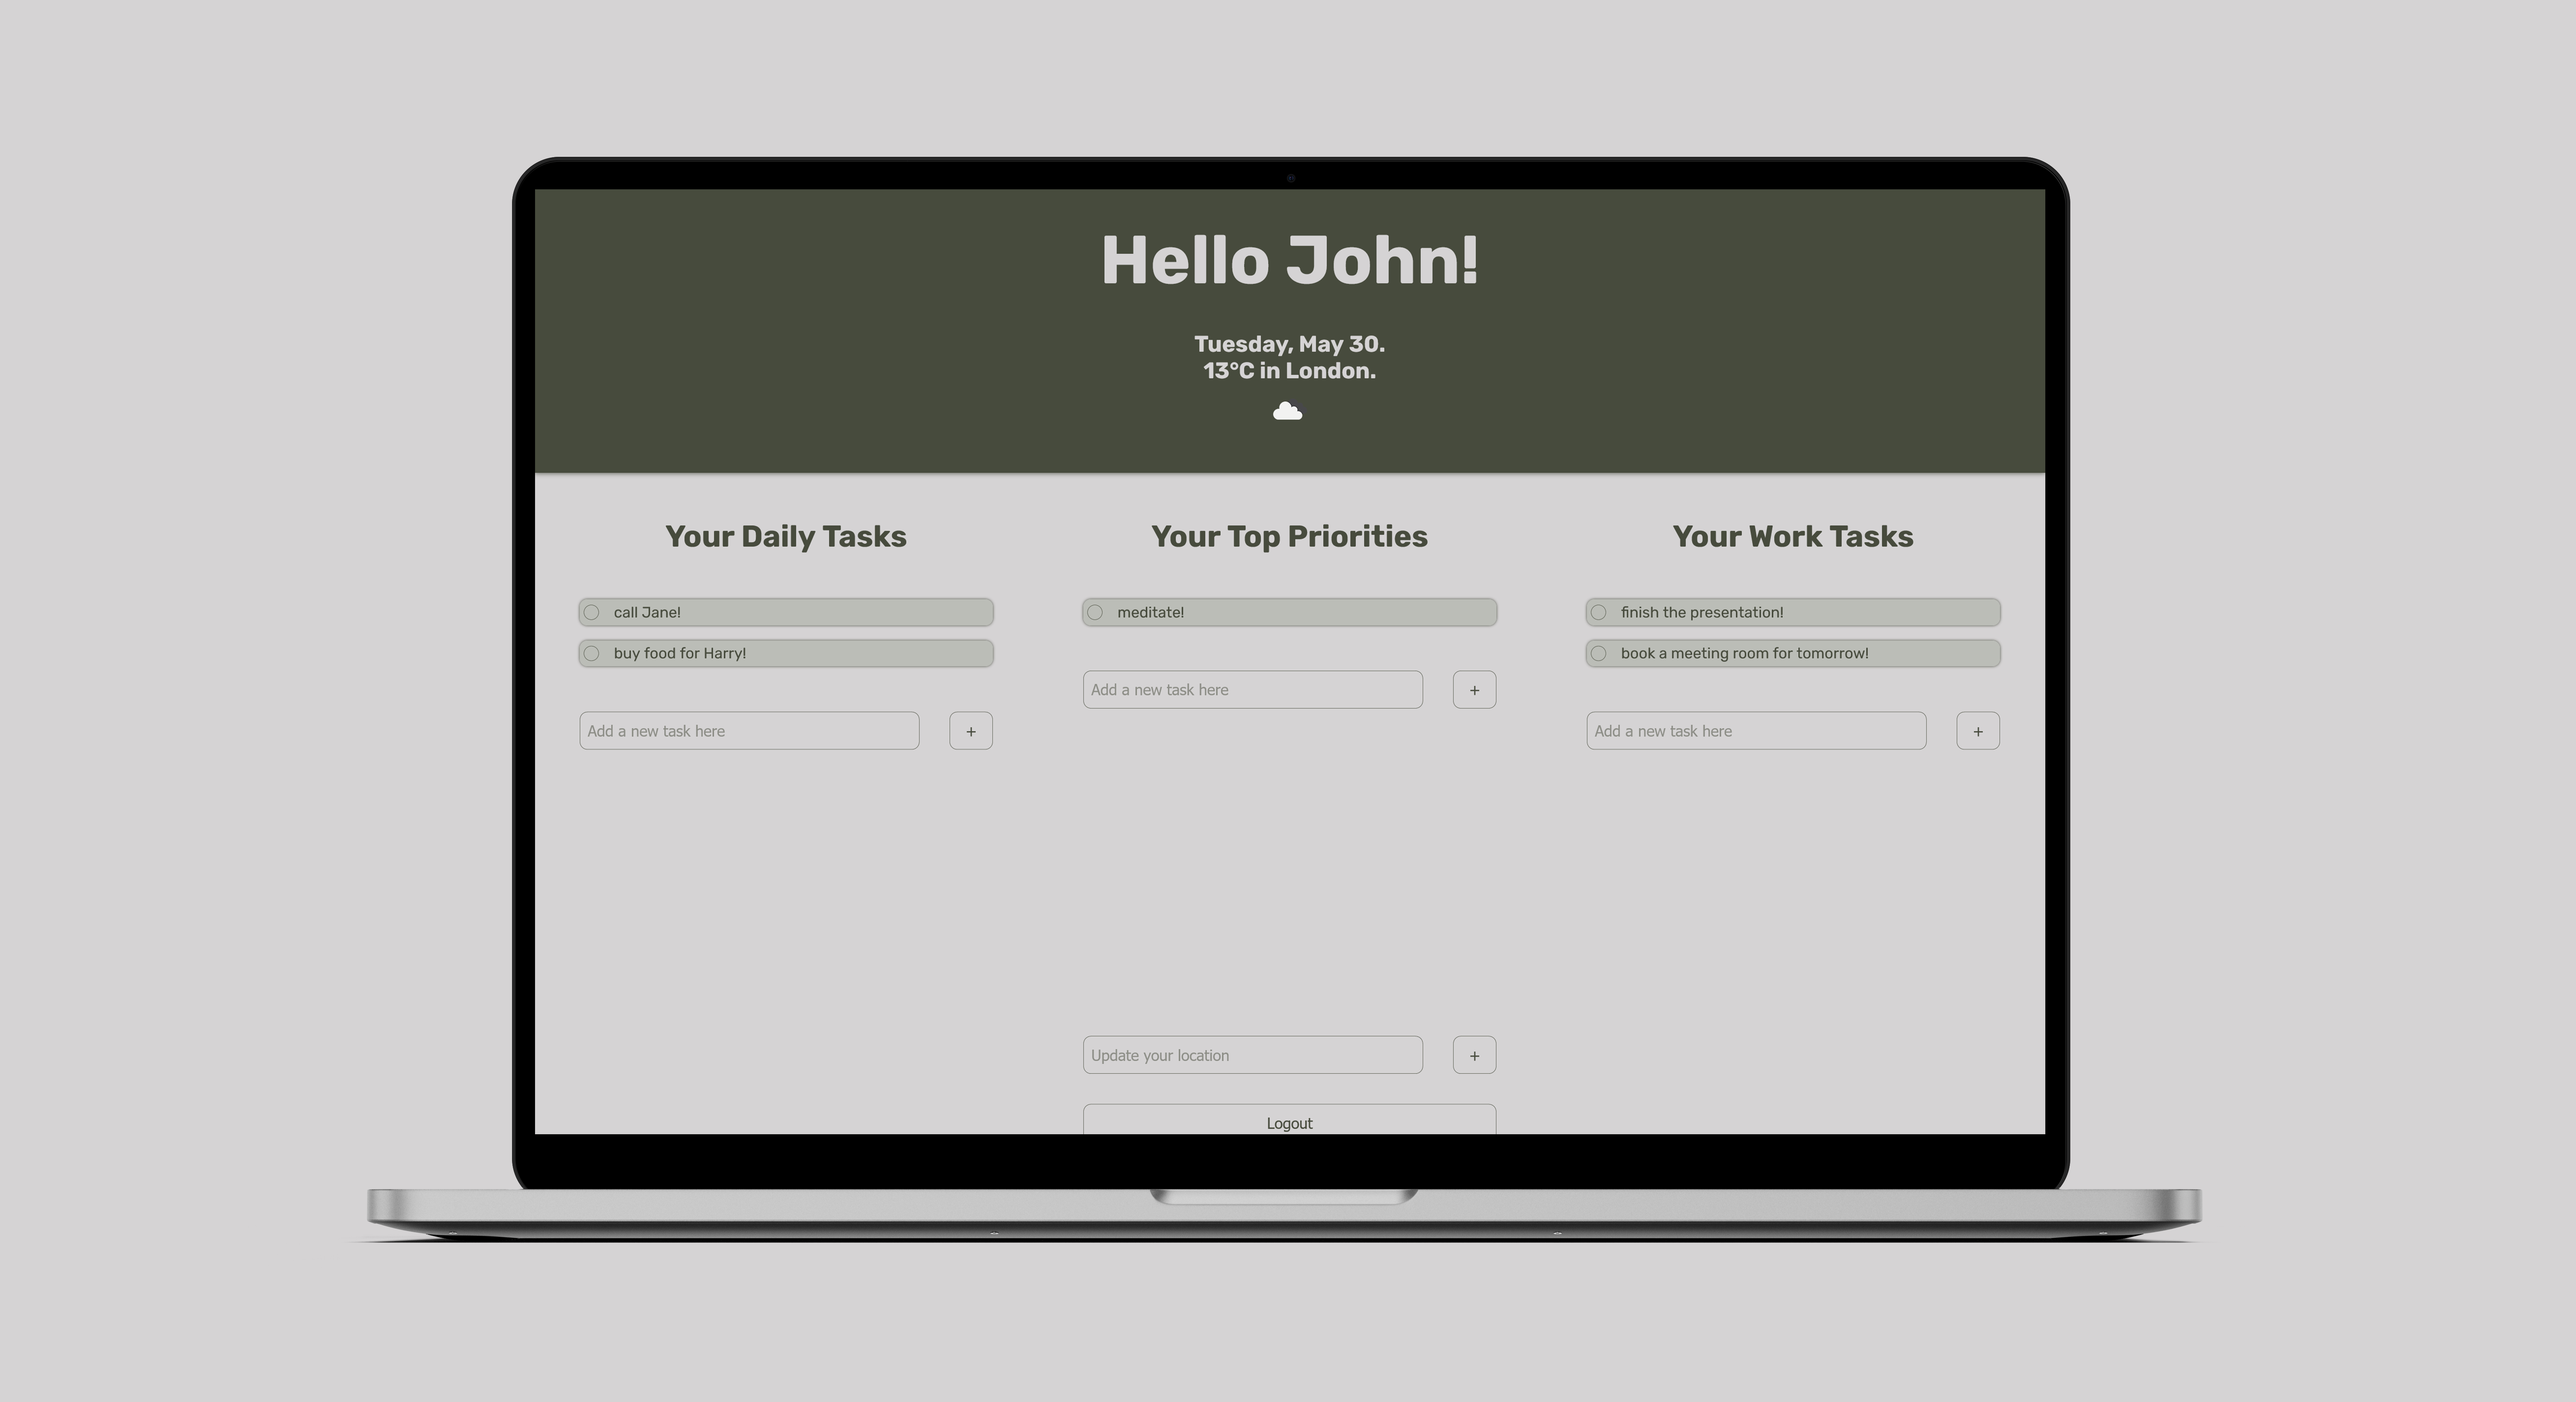
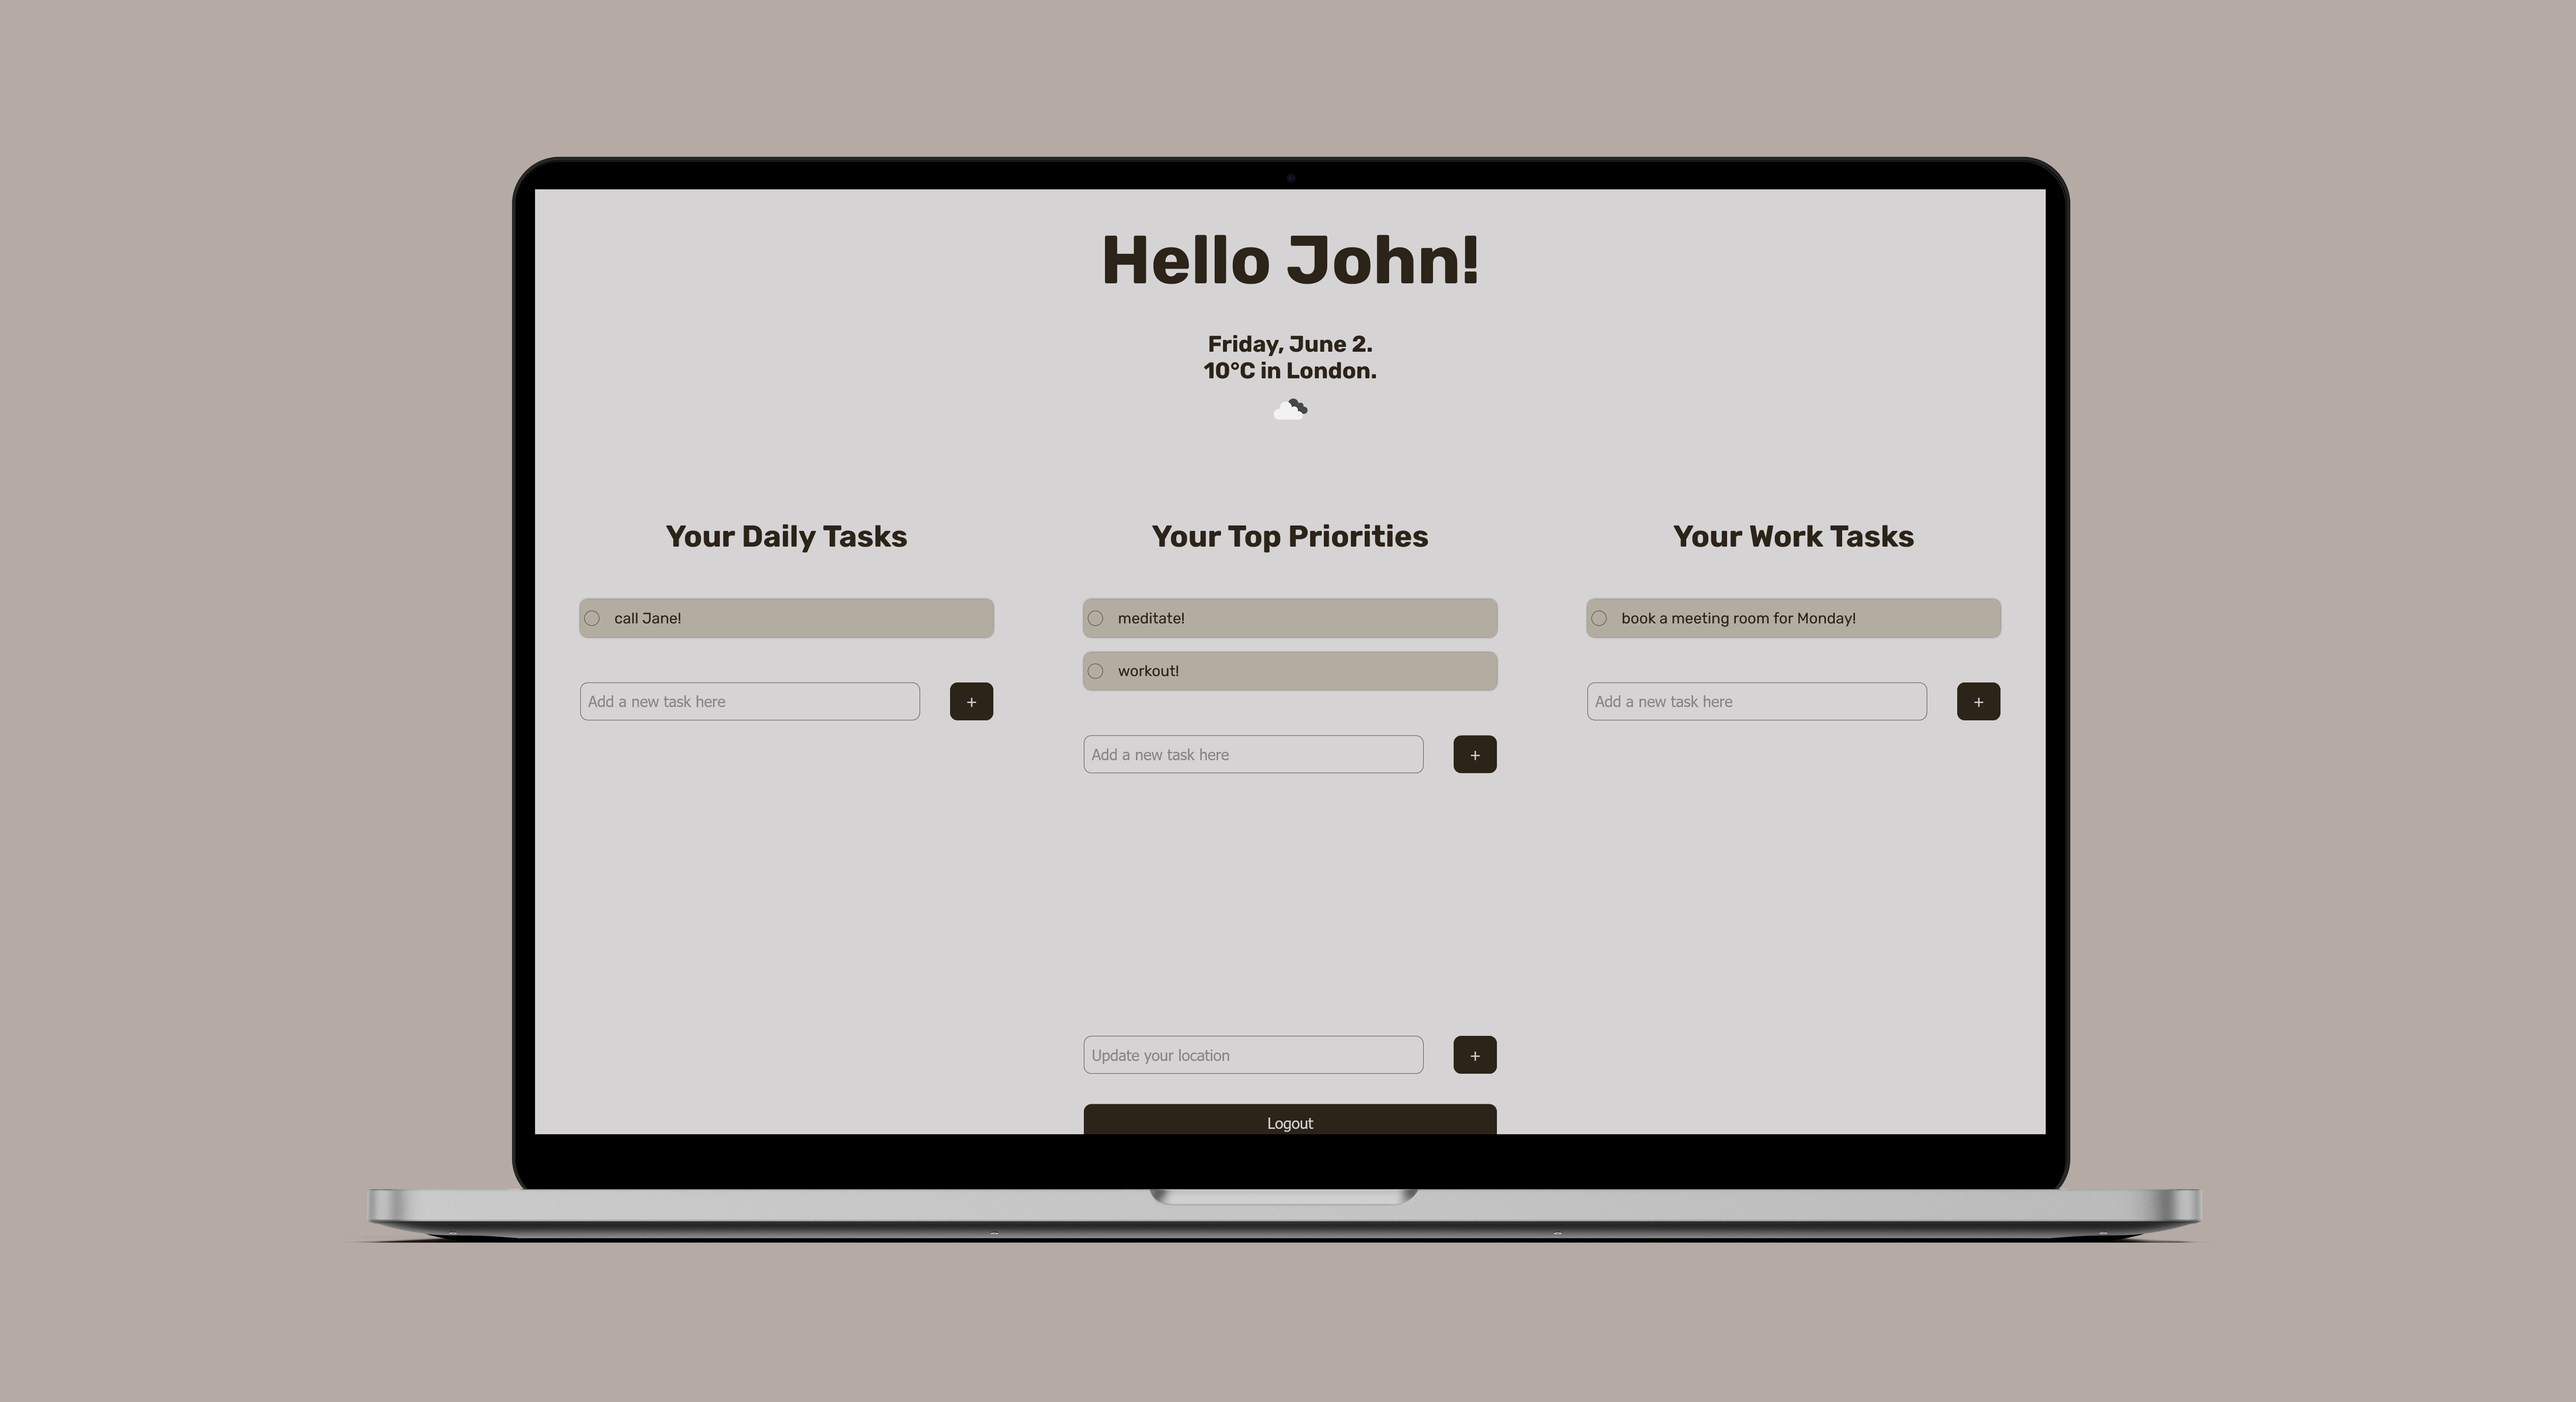
Update the overall design

diff --git a/public/css/planner-styles.css b/public/css/planner-styles.css
@@ -22,9 +22,8 @@ body {
 
 header {
     align-items: center;
-    background-color: #474b3d;
-    box-shadow: 0 0 10px 0 #474b3d;
-    color: #d5d3d4;
+    background-color: #d5d3d4;
+    color: #2c2419;
     display: flex;
     flex-direction: column;
     min-height: 30vh;
@@ -79,30 +78,31 @@ form {
 }
 
 .column-one h3 {
-    color: #474b3d;
+    color: #2c2419;
     font-family: 'Rubik', sans-serif;
     font-size: 2vmax;
 }
 
 .column-two h3 {
-    color: #474b3d;
+    color: #2c2419;
     font-family: 'Rubik', sans-serif;
     font-size: 2vmax;
 }
 
 .column-three h3 {
-    color: #474b3d;
+    color: #2c2419;
     font-family: 'Rubik', sans-serif;
     font-size: 2vmax;
 }
 
 .task-list {
     align-items: center;
-    background-color: #bbbdb7;
+    background-color: #b3aca1;
     border-radius: 0.5vmax;
-    box-shadow: 0 0 5px 0 #474b3d;
+    box-shadow: 0 0 3px 0 #2c2419;
     display: flex;
     flex-direction: row;
+    height: 2.5vmax;
     justify-content: flex-start;
     margin-bottom: 1vmax;
     padding: 0.5rem;
@@ -111,7 +111,7 @@ form {
 
 .task-list .daily-task-list {
     align-items: center;
-    color: #474b3d;
+    color: #2c2419;
     display: flex;
     font-size: 1vmax;
     margin-left: 1vmax;
@@ -119,7 +119,7 @@ form {
 
 .task-list .priorities-list {
     align-items: center;
-    color: #474b3d;
+    color: #2c2419;
     display: flex;
     font-size: 1vmax;
     margin-left: 1vmax;
@@ -127,7 +127,7 @@ form {
 
 .task-list .work-task-list {
     align-items: center;
-    color: #474b3d;
+    color: #2c2419;
     display: flex;
     font-size: 1vmax;
     margin-left: 1vmax;
@@ -146,15 +146,15 @@ form {
 }
 
 .task-list .daily-task-list-checkbox:hover {
-    background-color: #474b3d;
+    background-color: #2c2419;
 }
 
 .task-list .priorities-list-checkbox:hover {
-    background-color: #474b3d;
+    background-color: #2c2419;
 }
 
 .task-list .work-task-list-checkbox:hover {
-    background-color: #474b3d;
+    background-color: #2c2419;
 }
 
 .task-input {
@@ -165,10 +165,10 @@ form {
 
 input[type="text"] {
     background-color: transparent;
-    border: 1px solid #474b3d;
+    border: 1px solid #2c2419;
     border-radius: 0.5vmax;
     box-sizing: border-box;
-    color: #474b3d;
+    color: #2c2419;
     display: inline-block;
     font-size: 1vmax;
     height: 2.5vmax;
@@ -182,7 +182,7 @@ input[type="checkbox"] {
     -webkit-appearance: none;
     background-color: transparent;
     border: 1px solid;
-    border-color: #474b3d;
+    border-color: #2c2419;
     border-radius: 50%;
     cursor: pointer;
     height: 1vmax;
@@ -191,7 +191,7 @@ input[type="checkbox"] {
 }
 
 input::placeholder {
-    color: #474b3d;
+    color: #3f3a33;
     font-size: 1vmax;
     opacity: 0.5;
 }
@@ -202,10 +202,10 @@ input::placeholder {
 }
 
 .add-new-value {
-    background-color: transparent;
-    border: 1px solid #474b3d;
+    background-color: #2c2419;
+    border: 1px solid #2c2419;
     border-radius: 0.5vmax;
-    color: #474b3d;
+    color: #d5d3d4;
     flex: 1;
     font-size: 1vmax;
     height: 2.5vmax;
@@ -214,7 +214,7 @@ input::placeholder {
 }
 
 .add-new-value:hover {
-    background-color: #474b3d;
+    background-color: #3f3a33;
     color: #d5d3d4;
 }
 
@@ -230,10 +230,10 @@ section>div {
 }
 
 .logout-button {
-    background-color: transparent;
-    border: 1px solid #474b3d;
+    background-color: #2c2419;
+    border: 1px solid #2c2419;
     border-radius: 0.5vmax;
-    color: #474b3d;
+    color: #d5d3d4;
     font-size: 1vmax;
     height: 2.5vmax;
     margin-top: 1vmax;
@@ -241,7 +241,7 @@ section>div {
 }
 
 .logout-button:hover {
-    background-color: #474b3d;
+    background-color: #3f3a33;
     color: #d5d3d4;
 }
 
@@ -253,12 +253,12 @@ footer {
 }
 
 footer span {
-    color: #474b3d;
+    color: #2c2419;
     font-size: 1vmax;
 }
 
 a {
-    color: #474b3d;
+    color: #2c2419;
     text-decoration: none;
 }
 
@@ -293,6 +293,10 @@ a {
     .column-two h3,
     .column-three h3 {
         font-size: 2.5vmax;
+    }
+
+    .task-list {
+        height: 5vmax;
     }
 
     .task-list .daily-task-list,

diff --git a/public/css/styles.css b/public/css/styles.css
@@ -90,10 +90,10 @@ input::placeholder {
 }
 
 .login-button {
-    background-color: transparent;
+    background-color: #2c2419;
     border: 1px solid #2c2419;
     border-radius: 0.5vmax;
-    color: #2c2419;
+    color: #d5d3d4;
     font-size: 1vmax;
     height: 2.5vmax;
     margin-bottom: 1vmax;
@@ -101,15 +101,15 @@ input::placeholder {
 }
 
 .login-button:hover {
-    background-color: #2c2419;
+    background-color: #3f3a33;
     color: #d5d3d4;
 }
 
 .register-button {
-    background-color: transparent;
+    background-color: #2c2419;
     border: 1px solid #2c2419;
     border-radius: 0.5vmax;
-    color: #2c2419;
+    color: #d5d3d4;
     font-size: 1vmax;
     height: 2.5vmax;
     margin-bottom: 1vmax;
@@ -117,22 +117,22 @@ input::placeholder {
 }
 
 .register-button:hover {
-    background-color: #2c2419;
+    background-color: #3f3a33;
     color: #d5d3d4;
 }
 
 .home-button {
-    background-color: transparent;
+    background-color: #2c2419;
     border: 1px solid #2c2419;
     border-radius: 0.5vmax;
-    color: #2c2419;
+    color: #d5d3d4;
     font-size: 1vmax;
     height: 2.5vmax;
     width: 100%;
 }
 
 .home-button:hover {
-    background-color: #2c2419;
+    background-color: #3f3a33;
     color: #d5d3d4;
 }
 

diff --git a/db/database.js b/db/database.js
@@ -7,7 +7,7 @@ const dbConnection = () => {
         useUnifiedTopology: true,
     };
 
-    mongoose.connect("mongodb+srv://" + process.env.DATABASE + "@cluster0.oabosth.mongodb.net/?retryWrites=true&w=majority", options);
+    mongoose.connect(process.env.DATABASE, options);
 }
 
 module.exports = dbConnection;
